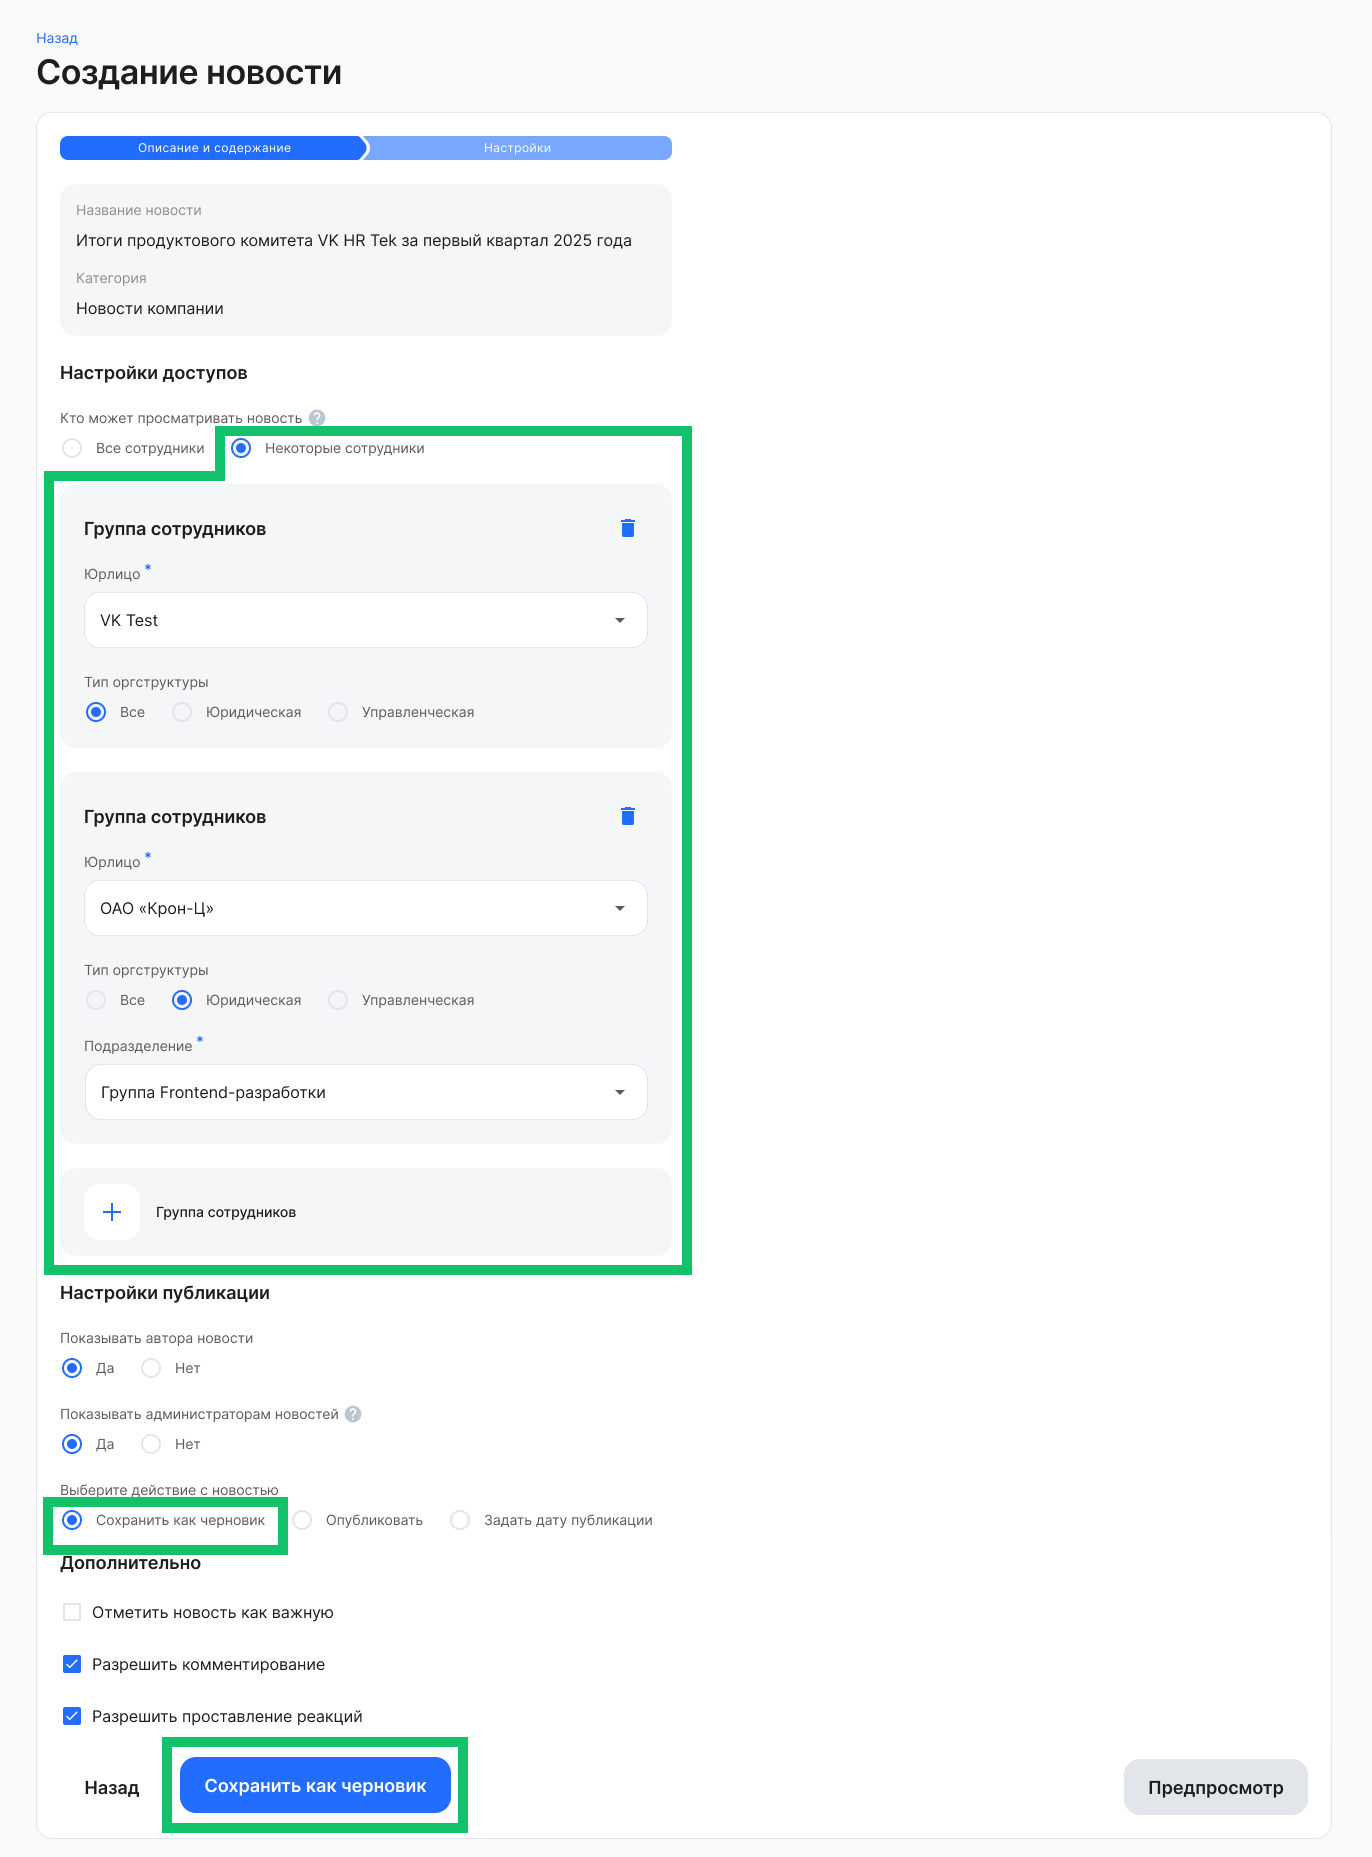
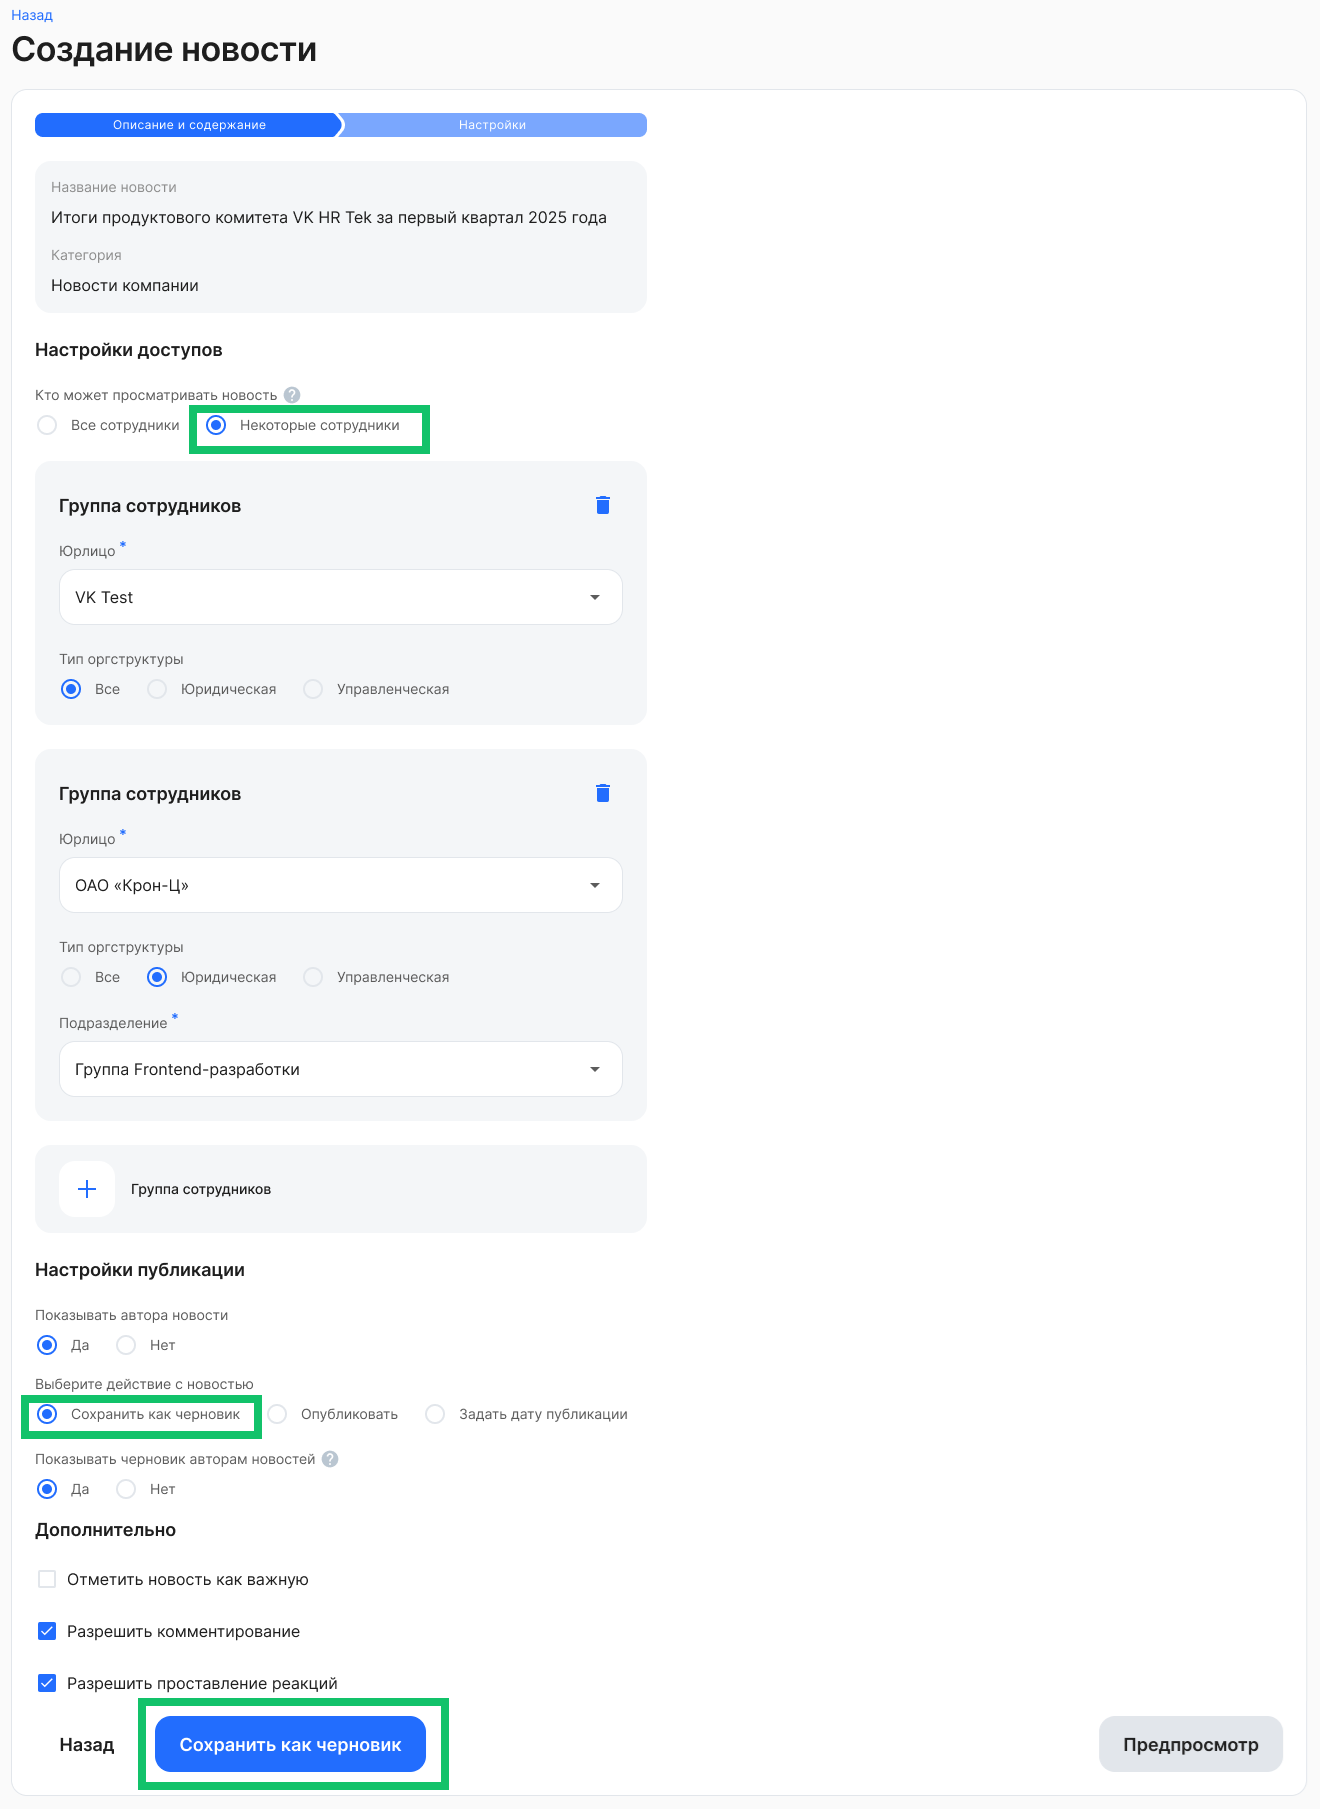
Release 2025-11-07 08:41:00

diff --git a/docs/ru/release_notes/1C/202510001C/202510001C.md b/docs/ru/release_notes/1C/202510001C/202510001C.md
@@ -1,0 +1,42 @@
+<info>
+Новая версия расширения 1С КЭДО была протестирована на платформе 1С:Предприятие 8.3.26 с конфигурацией ЗУП КОРП, ред. 3.1.35.47.
+</info>
+
+## **Работа с заявками**
+### **Список атрибутов для заявок массовой рассылки**
+Расширили список атрибутов, которые можно добавить в заявку для массовой рассылки. 
+
+Доступные типы атрибутов:
+
+- дата;
+- текст;
+- выбор из заданных вариантов (без зависимостей);
+- файлы — с возможностью одиночного или множественного добавления.
+
+Расширение списка позволяет гибче настраивать шаблоны заявок и собирать больше нужной информации в заявках.
+
+Чтобы заполнить атрибуты на этапе создания заявки, перейдите в раздел **КЭДО** → **Рабочее место кадровика**, создайте заявку с типом **Массовая рассылка** и выберите тип заявки. 
+
+![](./assets/create_1C.png)
+
+
+### **Атрибуты в заявках**
+1\. В атрибутах, где значения выбираются из справочников, теперь можно использовать **справочники с иерархией**. Это удобно, когда значения имеют многоуровневую структуру. Такая структура помогает упростить навигацию и сделать выбор значений более наглядным. 
+
+![](./assets/spravochnik.png)
+
+2\. Добавлен новый тип атрибута — **дата+время**. При его использовании в заявке отображаются два связанных поля: одно для выбора даты и второе — для указания времени. 
+
+Новый тип атрибута удобен для процессов, где важно фиксировать не только день, но и точное время события или действия.
+
+![](./assets/datetime.png)
+
+
+## **Отсутствия** 
+Если вы хотите отобразить в VK HR Tek отсутствия, которые были проведены до начала работы с отсутствиями в сервисе, то теперь можно добавить такие периоды в выгрузку без перепроведения документов в 1С.
+
+Это решение позволит вывести все нужные периоды в календаре отсутствий сотрудников, даже если перепроводка закрытых документов невозможна из-за ограничений внутренних политик компании.
+
+Чтобы переотправить данные об отсутствиях в КЭДО, в регистре сведений **Очередь отсутствий сотрудников (КЭДО)** нажмите кнопку **Заполнить данные за период** и обновите данные по сотрудникам.
+
+![](./assets/vacation_1C.png)

diff --git a/docs/ru/hr/questions_and_answers/questions_answers/questions_answers.md b/docs/ru/hr/questions_and_answers/questions_answers/questions_answers.md
@@ -67,7 +67,7 @@
 
 #### **Как настроить уведомления в Telegram сотрудникам?**
 
-Сотрудник должен самостоятельно подключить Telegram в **Профиле**. Компания совместно с менеджером ВК может настроить дополнительные уведомления. Для этого направьте заполненный файл [Параметры настройки уведомлений](https://cloud.mail.ru/public/2NKM/wZarRZzJK/%D0%9F%D0%B0%D1%80%D0%B0%D0%BC%D0%B5%D1%82%D1%80%D1%8B%20%D0%BD%D0%B0%D1%81%D1%82%D1%80%D0%BE%D0%B9%D0%BA%D0%B8%20%D1%83%D0%B2%D0%B5%D0%B4%D0%BE%D0%BC%D0%BB%D0%B5%D0%BD%D0%B8%D0%B9.xlsx) на адрес поддержки <support@hrtek.ru>.
+Сотрудник должен самостоятельно подключить Telegram в **Профиле**. Компания совместно с менеджером ВК может настроить дополнительные уведомления. Для этого направьте заполненный файл [Параметры настройки уведомлений](https://cloud.mail.ru/public/2NKM/wZarRZzJK/VK%20HR%20Tek%20-%20%D0%BD%D0%B0%D1%81%D1%82%D1%80%D0%BE%D0%B9%D0%BA%D0%B0%20%D1%83%D0%B2%D0%B5%D0%B4%D0%BE%D0%BC%D0%BB%D0%B5%D0%BD%D0%B8%D0%B9.xlsx) на адрес поддержки <support@hrtek.ru>.
 
 Подробнее о видах уведомлений в [статье](/ru/hr/notifications).
 
@@ -106,7 +106,7 @@
 
 Чтобы представитель мог получать письма, в его карточке сотрудника должна быть указана хотя бы одна действующая электронная почта. Дополнительно можно проверить отсутствие корпоративных блокировок для адреса, с которого приходят уведомления сервиса. 
 
-Для настройки дополнительных уведомлений направьте заполненный файл [Параметры настройки уведомлений](https://cloud.mail.ru/public/2NKM/wZarRZzJK/%D0%9F%D0%B0%D1%80%D0%B0%D0%BC%D0%B5%D1%82%D1%80%D1%8B%20%D0%BD%D0%B0%D1%81%D1%82%D1%80%D0%BE%D0%B9%D0%BA%D0%B8%20%D1%83%D0%B2%D0%B5%D0%B4%D0%BE%D0%BC%D0%BB%D0%B5%D0%BD%D0%B8%D0%B9.xlsx) на адрес поддержки <support@hrtek.ru>.
+Для настройки дополнительных уведомлений направьте заполненный файл [Параметры настройки уведомлений](https://cloud.mail.ru/public/2NKM/wZarRZzJK/VK%20HR%20Tek%20-%20%D0%BD%D0%B0%D1%81%D1%82%D1%80%D0%BE%D0%B9%D0%BA%D0%B0%20%D1%83%D0%B2%D0%B5%D0%B4%D0%BE%D0%BC%D0%BB%D0%B5%D0%BD%D0%B8%D0%B9.xlsx) на адрес поддержки <support@hrtek.ru>.
 
 #### **Сотруднику не пришла ссылка-приглашение, что делать?**
 

diff --git a/docs/ru/hr/news/management/create/create.md b/docs/ru/hr/news/management/create/create.md
@@ -72,7 +72,6 @@
 
 После заполнения описания и содержания новости перейдите к настройкам публикации. 
 
-![](./assets/Create_news0.png)
 
 В блоке **Настройки доступов** настройте следующие параметры:
 
@@ -98,9 +97,11 @@
 В блоке **Настройки публикации** настройте следующие параметры:
 
 * **Показывать автора новости**. По умолчанию выбран вариант **Да**. В этом случае ФИО автора будет отображаться после контента новости.  
-* **Показывать черновик авторам новостей**. По умолчанию установлено **Да**. Настройка позволяет скрывать/отображать черновик новости для остальных авторов.  
-* **Выберите действие с новостью**. Для выбора доступно три варианта:   
+
+* **Выберите действие с новостью**. Для выбора доступны варианты:   
   * **Сохранить как черновик**. После сохранения новость появится только в разделе **Социальные сервисы → Новости** и будет доступна автору новости и другим администраторам, у которых есть доступ к этой новости.
+
+  * **Показывать черновик авторам новостей**. По умолчанию установлено **Да**. Настройка позволяет скрывать/отображать черновик новости для остальных авторов.  
 
   ![](./assets/Create_news.png)
   

diff --git a/docs/ru/hr/notifications/notifications.md b/docs/ru/hr/notifications/notifications.md
@@ -40,7 +40,7 @@
 
 ## Кастомные уведомления
 
-Компания совместно с менеджером ВК может настроить кастомные уведомления. Для этого направьте заполненный файл [Параметры настройки уведомлений](https://cloud.mail.ru/public/2NKM/wZarRZzJK/%D0%9F%D0%B0%D1%80%D0%B0%D0%BC%D0%B5%D1%82%D1%80%D1%8B%20%D0%BD%D0%B0%D1%81%D1%82%D1%80%D0%BE%D0%B9%D0%BA%D0%B8%20%D1%83%D0%B2%D0%B5%D0%B4%D0%BE%D0%BC%D0%BB%D0%B5%D0%BD%D0%B8%D0%B9.xlsx) на адрес поддержки support@hrtek.ru.
+Компания совместно с менеджером ВК может настроить кастомные уведомления. Для этого направьте заполненный файл [Параметры настройки уведомлений](https://cloud.mail.ru/public/2NKM/wZarRZzJK/VK%20HR%20Tek%20-%20%D0%BD%D0%B0%D1%81%D1%82%D1%80%D0%BE%D0%B9%D0%BA%D0%B0%20%D1%83%D0%B2%D0%B5%D0%B4%D0%BE%D0%BC%D0%BB%D0%B5%D0%BD%D0%B8%D0%B9.xlsx) на адрес поддержки support@hrtek.ru.
 
 Для заполнения файла:
 1. Вносите данные в поля, выделенные только зеленым цветом.

diff --git a/docs/ru/1C/admin/start/start.md b/docs/ru/1C/admin/start/start.md
@@ -1,6 +1,6 @@
 <info>
 
-Актуальная версия расширения 1С КЭДО 2025.09.00 была протестирована на платформе 1С:Предприятие 8.3.26 с конфигурацией ЗУП КОРП, ред. 3.1.35.47.
+Актуальная версия расширения 1С КЭДО была протестирована на платформе 1С:Предприятие 8.3.26 с конфигурацией ЗУП КОРП, ред. 3.1.35.47.
 
 </info>
 
